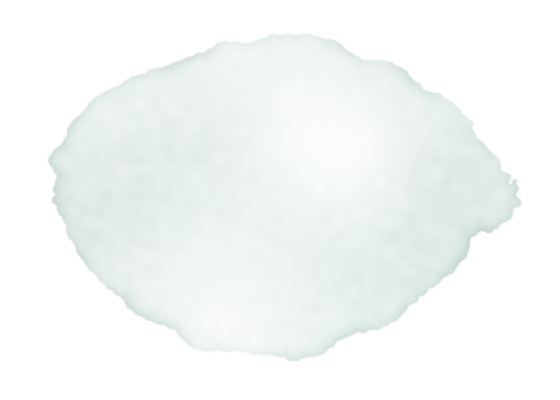
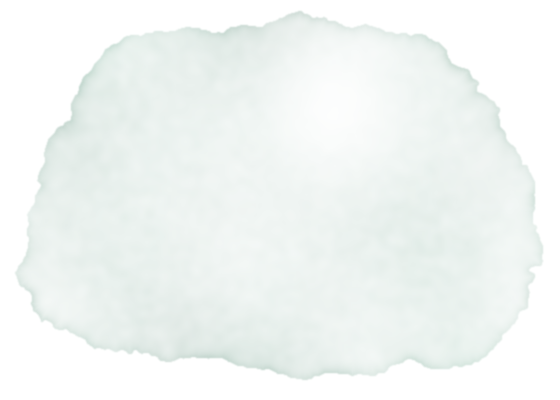
Fuller wash behind Open communication

diff --git a/index.html b/index.html
@@ -378,7 +378,7 @@
   #tab-join .wrap.subsection { margin-top: clamp(20px, 2.6vw, 30px); padding-top: clamp(20px, 2.6vw, 30px); }
   #tab-join ul.topics, #tab-join ol.steps { margin-bottom: 0; }
   /* Supervision keywords, each on a loose sage watercolor wash */
-  ul.values { list-style: none; margin: 0.2em 0 1.6em; padding: 0; display: grid; grid-template-columns: repeat(4, minmax(0, 1fr)); gap: 10px 16px; }
+  ul.values { list-style: none; margin: 0.2em 0 1.6em; padding: 0; display: grid; grid-template-columns: repeat(4, minmax(0, 1fr)); gap: 18px 16px; }
   .section-body ul.values li { position: relative; isolation: isolate; display: flex; flex-direction: column; align-items: center; justify-content: center; gap: 10px; min-height: 122px; padding: 16px 12px 15px;
     font-family: var(--sans); font-weight: 600; font-size: 0.9375rem; line-height: 1.25; color: var(--ink); text-align: center; text-wrap: balance; -webkit-hyphens: manual; hyphens: manual; }
   ul.values li::before { content: ""; position: absolute; inset: -14px -18px; z-index: -1; background: url("assets/wash-tile-1.webp") center / 100% 100% no-repeat; }
@@ -390,7 +390,7 @@
   ul.values li img.wide { width: 62px; margin: -4px 0; height: 52px; }
   ul.values li:nth-child(odd) img { transform: rotate(-6deg); }
   ul.values li:nth-child(3n) img { transform: rotate(7deg); }
-  @media (max-width: 560px) { ul.values { grid-template-columns: repeat(2, minmax(0, 1fr)); gap: 8px 14px; } .section-body ul.values li { min-height: 104px; font-size: 0.875rem; padding: 13px 10px 12px; gap: 8px; } ul.values li img { width: 38px; height: 38px; } ul.values li img.wide { width: 54px; height: 46px; } }
+  @media (max-width: 560px) { ul.values { grid-template-columns: repeat(2, minmax(0, 1fr)); gap: 16px 14px; } .section-body ul.values li { min-height: 104px; font-size: 0.875rem; padding: 13px 10px 12px; gap: 8px; } ul.values li img { width: 38px; height: 38px; } ul.values li img.wide { width: 54px; height: 46px; } }
   #tab-join ul.topics li:last-child { padding-bottom: 0; }
   /* Keep all page text in front of the footer painting where they overlap */
   main { position: relative; z-index: 2; }
